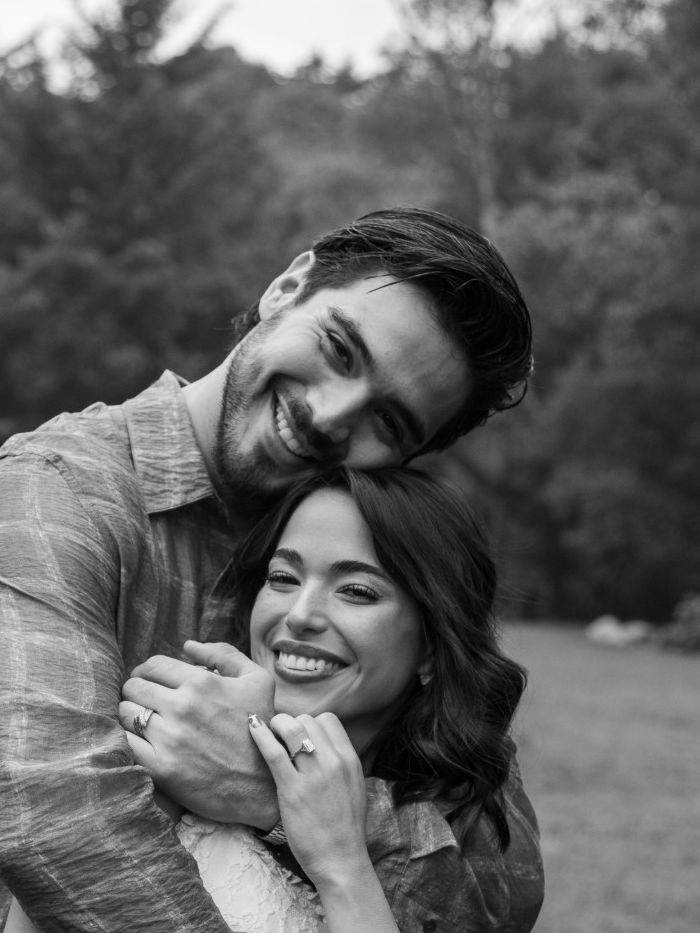
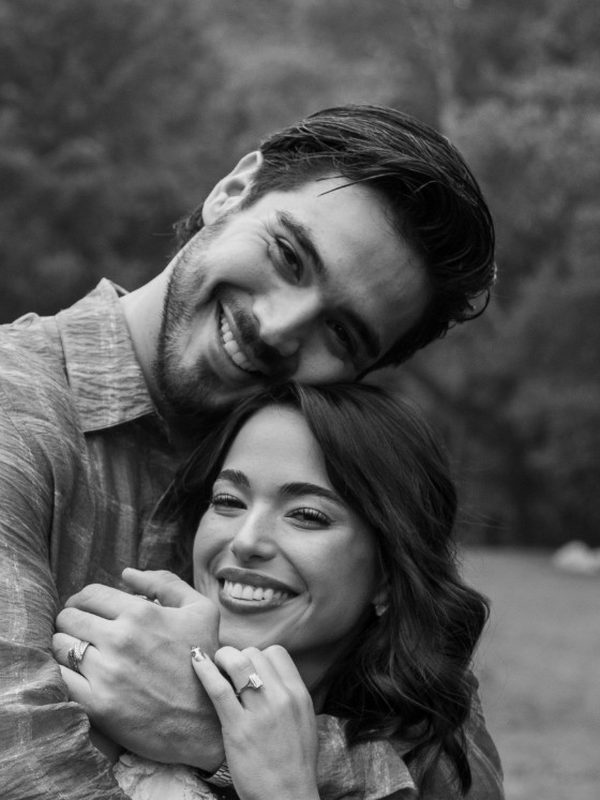
Previa: preguntas sobre la foto del bosque (sin frase) y óvalo más cerrado en las caras
Claude-Session: https://claude.ai/code/session_017Bu4VZuvpVZPGBgM6bGg4M

diff --git a/index.html b/index.html
@@ -287,6 +287,12 @@ h2{font-family:var(--mano);font-weight:600;font-size:clamp(32px,9vw,44px);color:
 .secciones details[open] summary svg{transform:rotate(90deg)}
 .secciones .contenido{padding:0 4px 22px;color:var(--tinta-suave);font-size:15px;text-align:center}
 .secciones .contenido p{margin:0 0 12px}
+.secciones.sobre-foto{margin-inline:calc(50% - 50vw);width:100vw;min-height:clamp(480px,135vw,760px);padding:clamp(28px,8vw,56px) max(16px,calc(50vw - 260px));border:0;display:flex;flex-direction:column;justify-content:flex-start;
+  background:linear-gradient(180deg,rgba(16,22,14,.7),rgba(16,22,14,.25) 55%,rgba(16,22,14,.1)),url(foto-g-bosque.jpg) 50% 70%/cover no-repeat}
+.sobre-foto details{border-bottom:1px solid rgba(255,250,235,.35)}
+.sobre-foto details:first-child{border-top:1px solid rgba(255,250,235,.35)}
+.sobre-foto summary{color:var(--perla);text-shadow:0 1px 8px rgba(0,0,0,.5)}
+.sobre-foto .contenido,.sobre-foto strong{color:#f3ead9}
 .secciones strong{color:var(--tinta);font-weight:500}
 .cierre{position:relative;margin-top:var(--aire);margin-inline:calc(50% - 50vw);min-height:min(170vw,760px);display:flex;color:#fbf3e6;overflow:hidden;background:#1e1a1a}
 .cierre-foto{position:absolute;inset:0;width:100%;height:100%;max-width:none;object-fit:cover;object-position:34% 50%;filter:grayscale(1) contrast(1.05) brightness(.62)}
@@ -348,10 +354,6 @@ h2{font-family:var(--mano);font-weight:600;font-size:clamp(32px,9vw,44px);color:
 .g-sello{left:8%;bottom:0;width:36%;aspect-ratio:1;padding:12px;transform:rotate(-5deg);z-index:3;
   background:radial-gradient(circle at 7px 7px,transparent 4.5px,#fffdf7 5px) -7px -7px/14px 14px}
 .g-sello .ph{background:linear-gradient(160deg,#c2405e,#6a0f26)}
-.panoramica{position:relative;margin:var(--aire) calc(50% - 50vw) 0;width:100vw;height:clamp(260px,78vw,520px);overflow:hidden}
-.panoramica img{width:100%;height:100%;object-fit:cover;object-position:52% 60%;display:block}
-.panoramica::after{content:"";position:absolute;inset:0;background:linear-gradient(180deg,transparent 55%,rgba(20,26,16,.6))}
-.panoramica figcaption{position:absolute;left:16px;right:16px;bottom:16px;z-index:1;text-align:center;font-family:var(--mano);font-size:clamp(20px,5.8vw,28px);color:var(--perla);text-shadow:0 2px 10px rgba(0,0,0,.5)}
 .banda-foto{position:relative;margin-inline:calc(50% - 50vw);width:100vw;height:clamp(150px,42vw,250px);margin-bottom:22px;display:grid;place-items:center;overflow:hidden;
   background:linear-gradient(180deg,rgba(30,20,18,.25),rgba(30,20,18,.55)),var(--foto) var(--pos,50% 50%)/cover no-repeat}
 .banda-foto h2{margin:0;color:var(--perla);text-shadow:0 2px 14px rgba(0,0,0,.45);padding-inline:16px}
@@ -744,14 +746,8 @@ h2{font-family:var(--mano);font-weight:600;font-size:clamp(32px,9vw,44px);color:
     <p class="limite rev">Te pedimos confirmar a más tardar el <span id="fecha-limite">31 de enero de 2027</span>.</p>
   </section>
 
-  <!-- PANORÁMICA: el bosque -->
-  <figure class="panoramica rev">
-    <img src="foto-g-bosque.jpg" alt="Dalia y Lauro abrazados junto a un árbol enorme y un río en el bosque" loading="lazy">
-    <figcaption>y aquí empieza nuestra historia para siempre</figcaption>
-  </figure>
-
   <!-- SECCIONES EXTRA -->
-  <div class="secciones rev" id="dudas">
+  <div class="secciones sobre-foto rev" id="dudas">
     <details>
       <summary>Dónde hospedarse <svg width="12" height="12" viewBox="0 0 12 12" fill="none" aria-hidden="true"><path d="M3 1l5 5-5 5" stroke="currentColor" stroke-width="1.3" stroke-linecap="round" stroke-linejoin="round"/></svg></summary>
       <div class="contenido">
